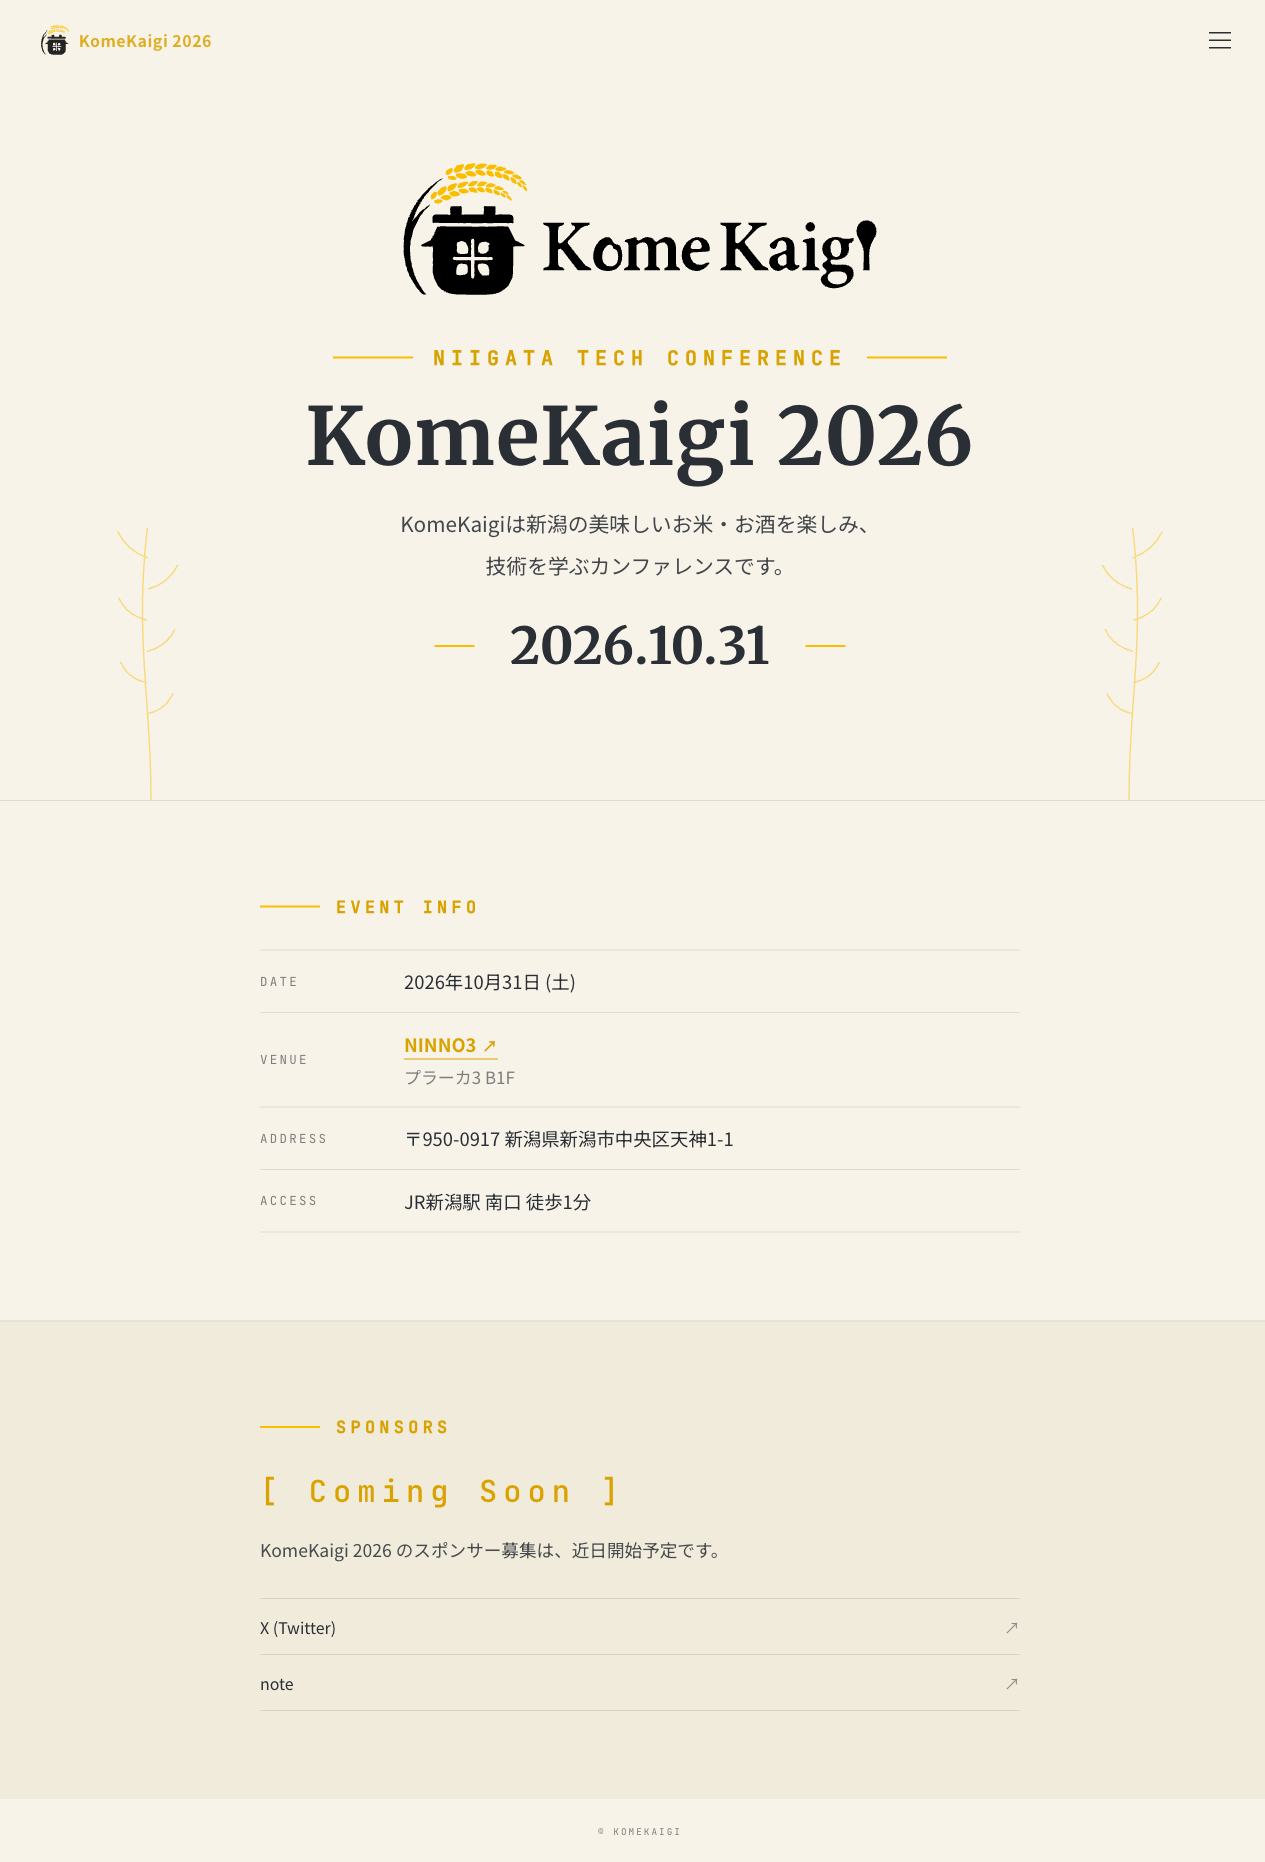
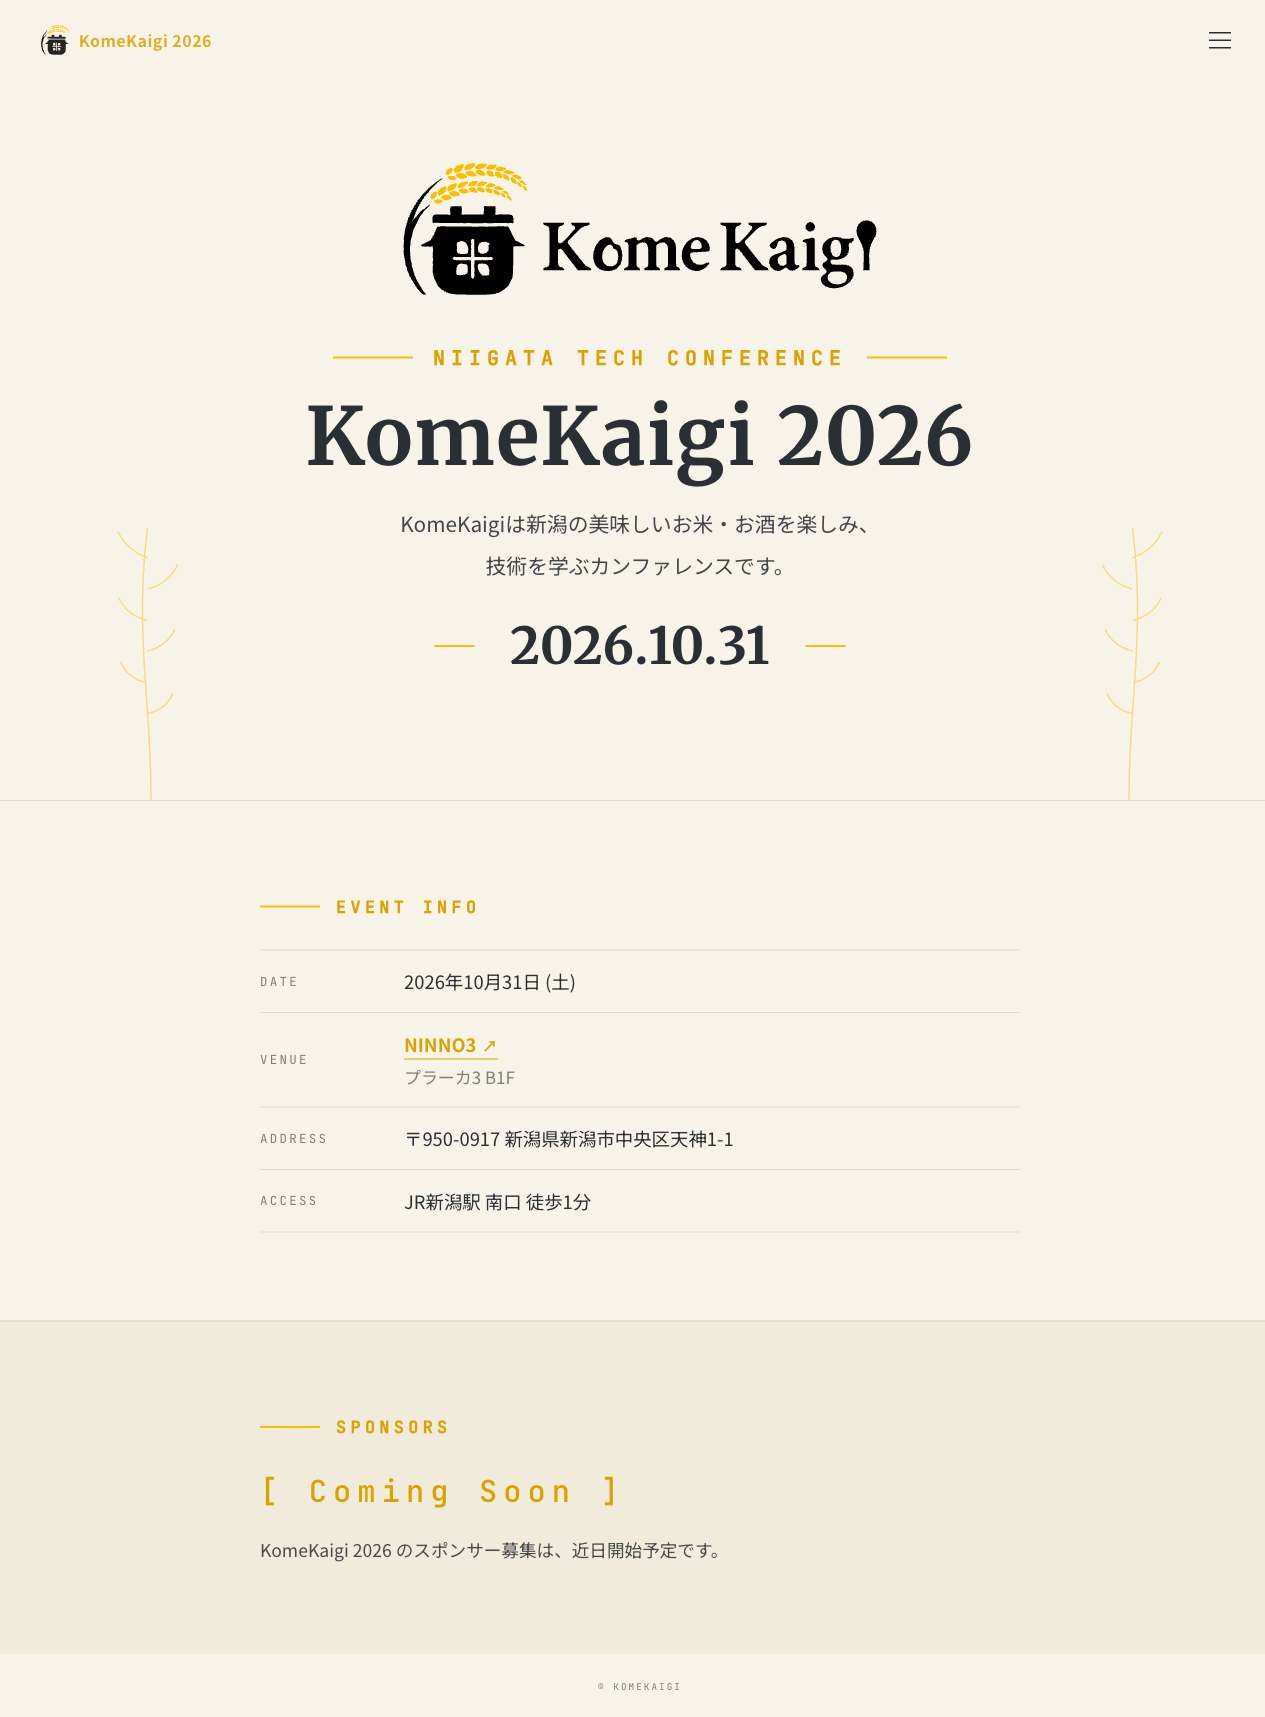
refactor: SponsorsセクションからX/noteリンクを削除（メニューと重複）
ハンバーガーメニュー内の Follow セクションに既に X (Twitter) / note への
リンクが存在しており、Sponsors セクション内の同リンクは情報重複だった。
状態表示「[ Coming Soon ]」とリード文だけに絞ってクリーンアップ。

- HTML: <ul class="sponsors-channels"> ブロック削除
- CSS: .sponsors-channels 関連スタイル削除、.sponsors-lead の margin-bottom 解除
- PR #13 スクリーンショットも更新

diff --git a/docs/css/teaser.css b/docs/css/teaser.css
@@ -474,45 +474,12 @@ a {
 }
 
 .sponsors-lead {
-    margin: 0 0 2rem;
+    margin: 0;
     font-family: var(--font-sans);
     font-size: clamp(1rem, 2.2vw, 1.1rem);
     line-height: 1.9;
     color: var(--color-ink);
     opacity: 0.85;
-}
-
-.sponsors-channels {
-    list-style: none;
-    margin: 0;
-    padding: 0;
-    border-top: 1px solid var(--color-line);
-}
-
-.sponsors-channels li {
-    border-bottom: 1px solid var(--color-line);
-}
-
-.sponsors-channels a {
-    display: flex;
-    align-items: center;
-    justify-content: space-between;
-    gap: 1rem;
-    padding: 1rem 0;
-    font-family: var(--font-sans);
-    font-size: 1rem;
-    color: var(--color-ink);
-    cursor: pointer;
-    transition: color 0.2s ease;
-}
-
-.sponsors-channels a:hover {
-    color: var(--color-primary-dark);
-}
-
-.sponsors-channels-arrow {
-    font-size: 1rem;
-    opacity: 0.5;
 }
 
 /* ==========================================

diff --git a/docs/index.html b/docs/index.html
@@ -207,20 +207,6 @@
             <p class="sponsors-lead">
                 KomeKaigi 2026 のスポンサー募集は、近日開始予定です。
             </p>
-            <ul class="sponsors-channels">
-                <li>
-                    <a href="https://x.com/komekaigi" target="_blank" rel="noopener">
-                        <span>X (Twitter)</span>
-                        <span class="sponsors-channels-arrow" aria-hidden="true">↗</span>
-                    </a>
-                </li>
-                <li>
-                    <a href="https://note.com/komekaigi/m/mf56a6e60a550" target="_blank" rel="noopener">
-                        <span>note</span>
-                        <span class="sponsors-channels-arrow" aria-hidden="true">↗</span>
-                    </a>
-                </li>
-            </ul>
         </div>
     </section>
 
